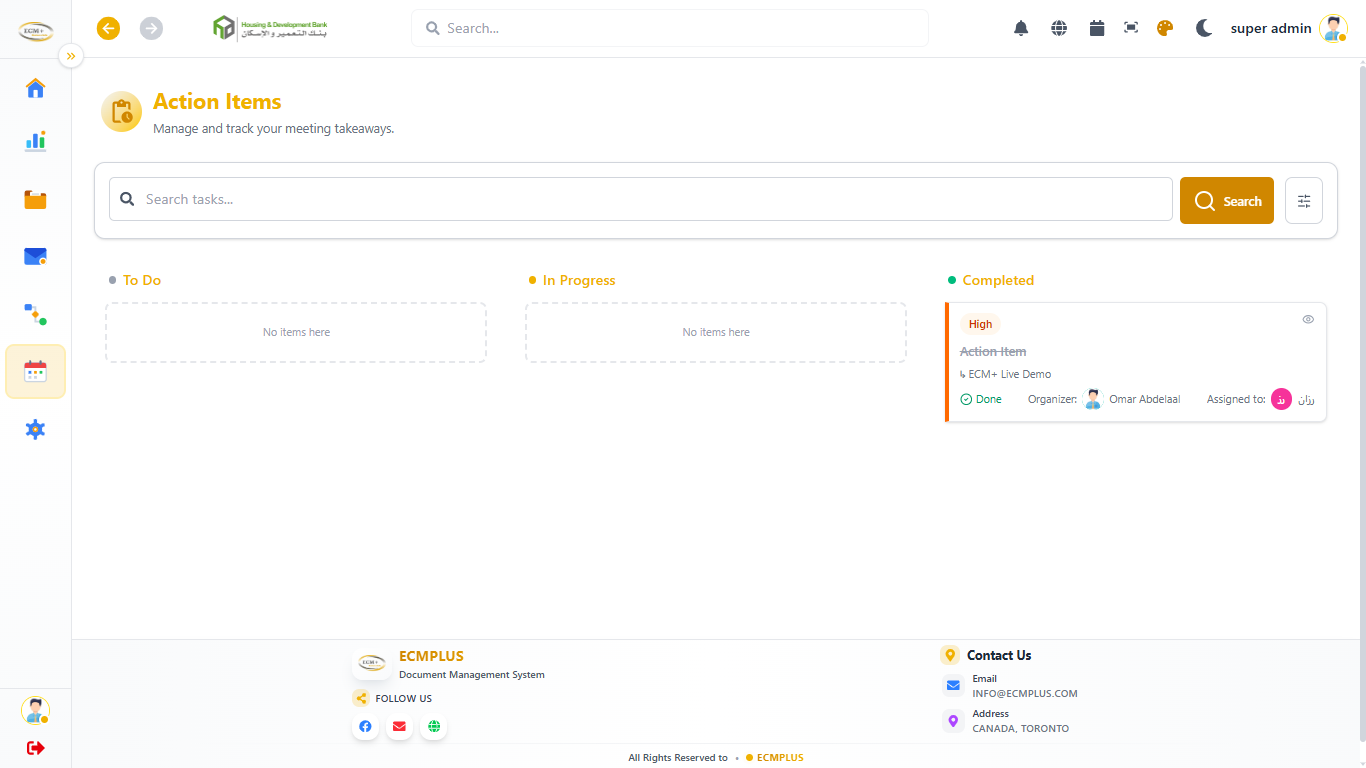
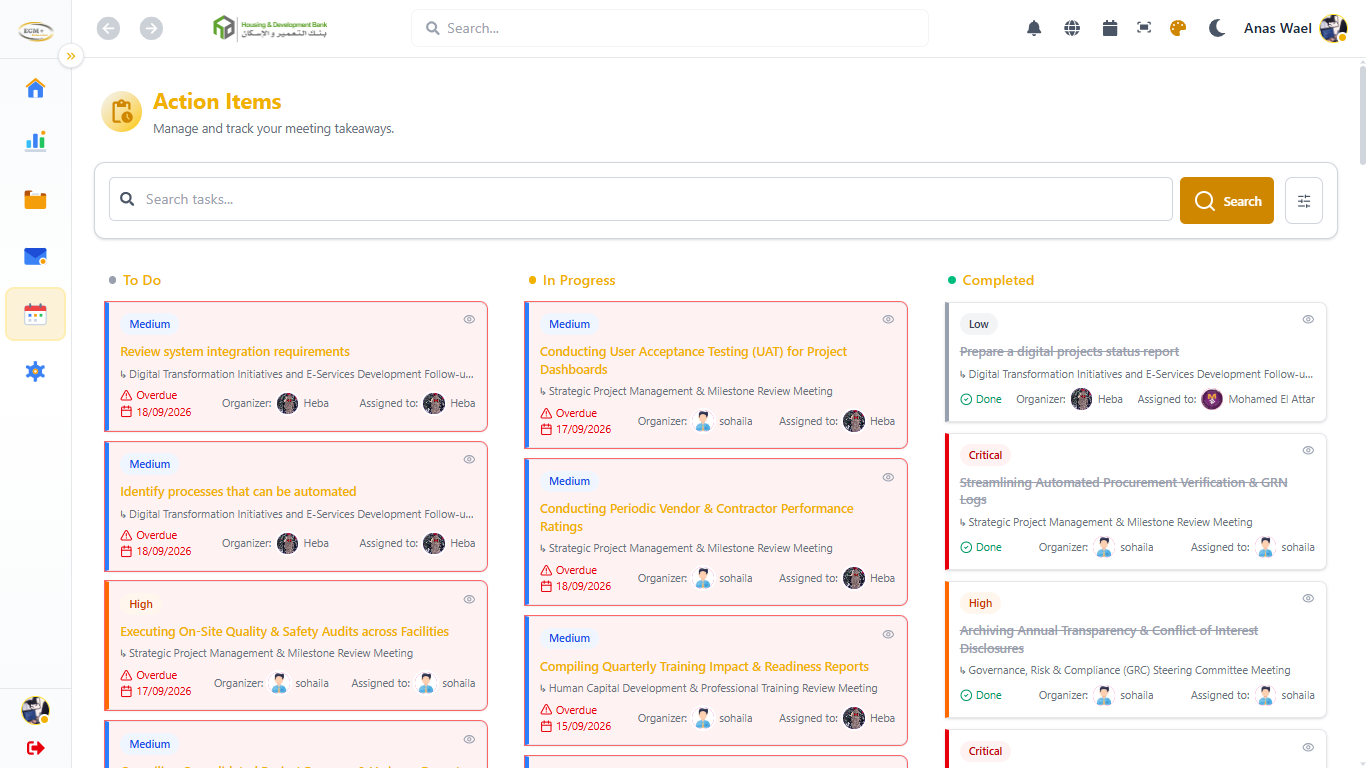
edit some images

diff --git a/src/data/modules/ModulesFeaturesData.tsx b/src/data/modules/ModulesFeaturesData.tsx
@@ -3,28 +3,28 @@ import type { ModuleId } from "..";
 // dms
 import archiveAR from "../../assets/system/dms-archive-ar.png";
 import archiveEN from "../../assets/system/dms-archive-en.jpeg";
-import archiveTypesAR from "../../assets/system/dms-types-ar.jpeg";
-import archiveTypesEN from "../../assets/system/dms-types-en.jpeg";
+import archiveTypesAR from "../../assets/system/dms-types-ar.png";
+import archiveTypesEN from "../../assets/system/dms-types-en.png";
 import searchAR from "../../assets/system/dms-search-ar.png";
 import searchEN from "../../assets/system/dms-search-en.png";
 import explorerAR from "../../assets/system/dms-explorer-ar.jpeg";
 import explorerEN from "../../assets/system/dms-explorer-en.jpeg";
-import aclAR from "../../assets/system/dms-acl-ar.jpeg";
-import aclEN from "../../assets/system/dms-acl-en.jpeg";
-import retentionAR from "../../assets/system/dms-retention-ar.jpeg";
-import retentionEN from "../../assets/system/dms-retention-en.jpeg";
-import sharedAR from "../../assets/system/dms-shared-ar.jpeg";
-import sharedEN from "../../assets/system/dms-shared-en.jpeg";
+import aclAR from "../../assets/system/dms-acl-ar.png";
+import aclEN from "../../assets/system/dms-acl-en.png";
+import retentionAR from "../../assets/system/dms-retention-ar.png";
+import retentionEN from "../../assets/system/dms-retention-en.png";
+import sharedAR from "../../assets/system/dms-shared-ar.png";
+import sharedEN from "../../assets/system/dms-shared-en.png";
 import recycleAR from "../../assets/system/dms-recycle-ar.jpeg";
 import recycleEN from "../../assets/system/dms-recycle-en.jpeg";
 
 // cms
 import addCMSAR from "../../assets/system/cms-add-ar.jpeg";
 import addCMSEN from "../../assets/system/cms-add-en.jpeg";
-import cmsInboxAR from "../../assets/system/cms-inbox-ar.jpeg";
-import cmsInboxEN from "../../assets/system/cms-inbox-en.jpeg";
-import partiesAR from "../../assets/system/cms-parties-ar.jpeg";
-import partiesEN from "../../assets/system/cms-parties-en.jpeg";
+import cmsInboxAR from "../../assets/system/cms-inbox-ar.png";
+import cmsInboxEN from "../../assets/system/cms-inbox-en.png";
+import partiesAR from "../../assets/system/cms-parties-ar.png";
+import partiesEN from "../../assets/system/cms-parties-en.png";
 import cmsSettingsAR from "../../assets/system/cms-settings-ar.png";
 import cmsSettingsEN from "../../assets/system/cms-settings-en.png";
 
@@ -41,15 +41,15 @@ import bpmTemplatesAR from "../../assets/system/bpm-templates-ar.jpeg";
 import bpmTemplatesEN from "../../assets/system/bpm-templates-ar.jpeg";
 
 // mms
-import kpisAR from "../../assets/system/mms-overview-ar.jpeg";
-import kpisEN from "../../assets/system/mms-overview-en.jpeg";
-import followupEN from "../../assets/system/mms-followup-en.png";
-import followupAR from "../../assets/system/mms-followup-ar.png";
+import kpisAR from "../../assets/system/mms-overview-ar.png";
+import kpisEN from "../../assets/system/mms-overview-en.png";
+import followupEN from "../../assets/system/mms-meetings-ar.png";
+import followupAR from "../../assets/system/mms-meetings-en.png";
 import mmsSettingsAR from "../../assets/system/mms-settings-ar.png";
 import mmsSettingsEN from "../../assets/system/mms-settings-en.png";
-import commitesAR from "../../assets/system/mms-committes-ar.png";
-import commitesEN from "../../assets/system/mms-committee-en.png";
-import mmsTasksAR from "../../assets/system/mms-tasks-ar.jpeg";
+import commitesAR from "../../assets/system/mms-committees-ar.png";
+import commitesEN from "../../assets/system/mms-committees-en.png";
+import mmsTasksAR from "../../assets/system/mms-tasks-ar.png";
 import mmsTasksEN from "../../assets/system/mms-tasks-en.png";
 
 export interface ModuleFeatureItem {

diff --git a/src/pages/modules/components/moduleBenefites/ModuleBenefits.tsx b/src/pages/modules/components/moduleBenefites/ModuleBenefits.tsx
@@ -66,13 +66,10 @@ const ModuleBenefits = ({
               return (
                 <div
                   key={itemTitleKey}
-                  className={`flex flex-col gap-4 bg-bg-primary p-8 ${
+                  className={`flex flex-col gap-4 border-b border-border bg-bg-primary p-8 last:border-b-0 sm:[&:nth-last-child(-n+2)]:border-b-0 ${
                     isRightCol ? "" : "sm:border-e sm:border-border"
-                  } ${isBottomRow ? "" : "border-b border-border"}`}
+                  }`}
                 >
-                  {/* The one place teal is used as a fill, not a line — a light
-                    tint, not a solid block, so it reads as an accent rather
-                    than a second primary color. */}
                   <span className="flex h-10 w-10 items-center justify-center rounded-lg border border-accent/20 bg-accent/10 text-accent">
                     <Icon size={18} strokeWidth={1.75} />
                   </span>
